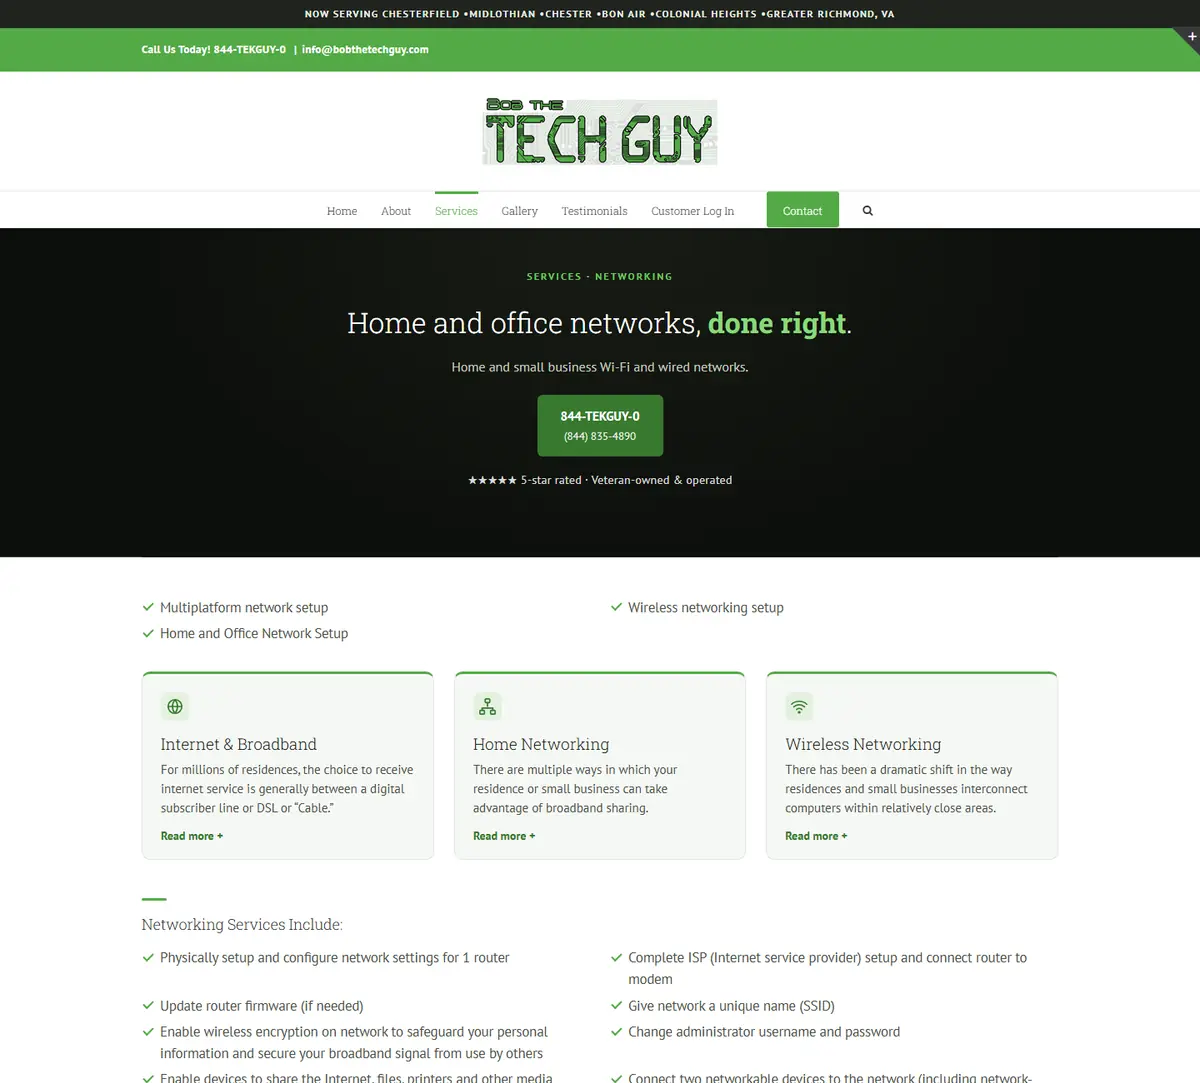
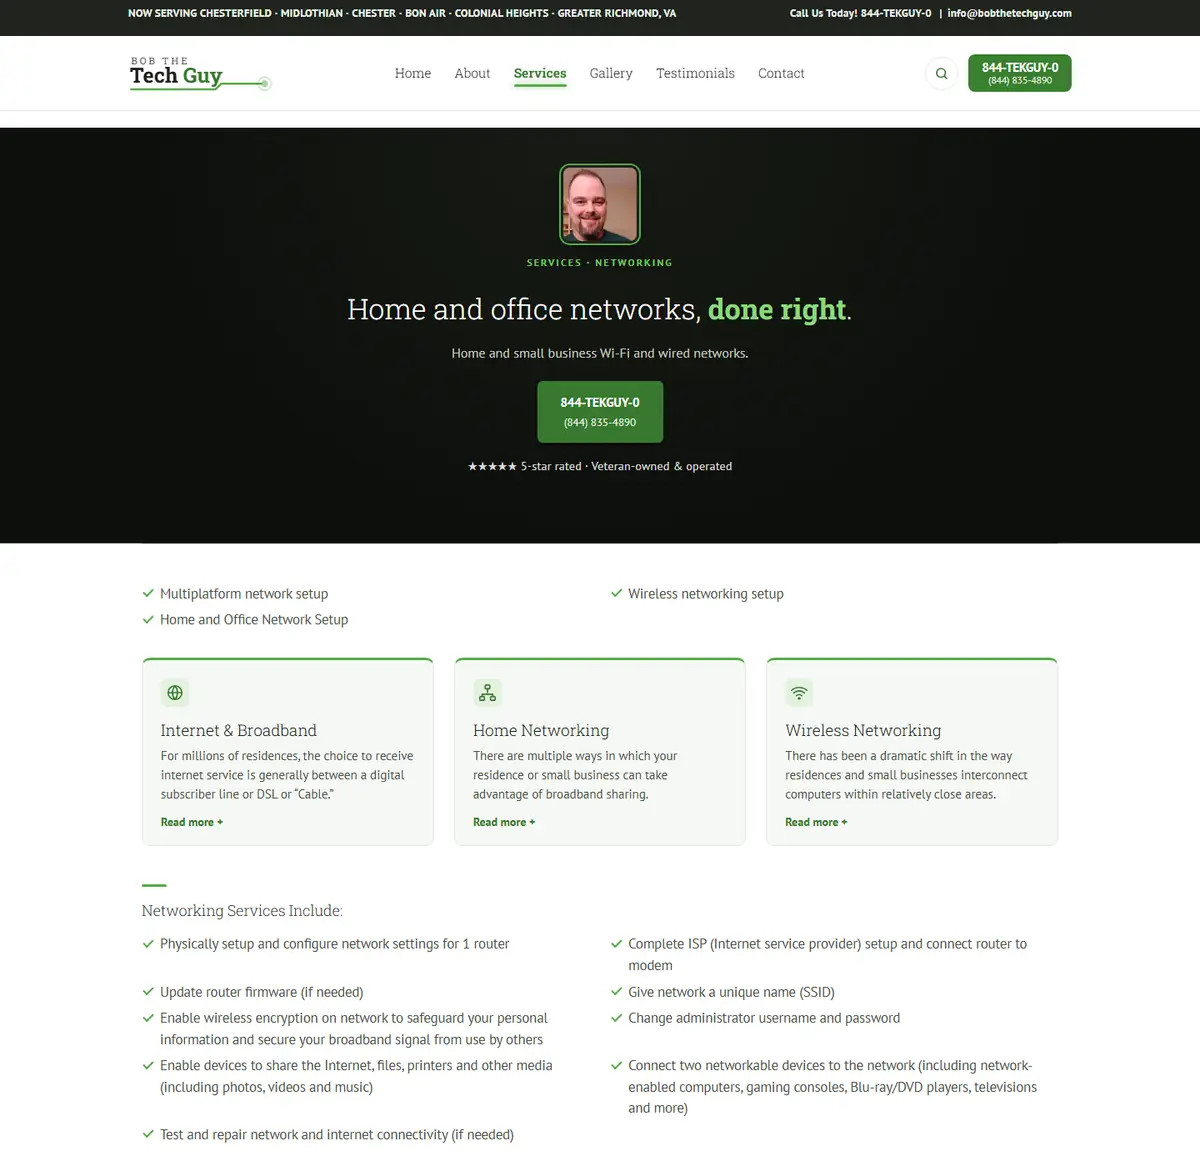
Refresh Bob after-screenshots from the live site

Changed region(s): [[0.0, 0.0, 1.0, 1.0]]

diff --git a/src/content/bobCaseFile.ts b/src/content/bobCaseFile.ts
@@ -53,9 +53,9 @@ export const AI_NOTE = "AI-assisted development (Claude Code), with every change
 
 export const WORK = [
   { pair: "Home", src: "/images/bob/home-before.webp", archived: true, alt: "Bob The Tech Guy homepage in 2022: old pixel logo, a public login bar, and a collage of brand logos", caption: "Home, before — archived 2022 via the Wayback Machine" },
-  { pair: "Home", src: "/images/bob/home-after.webp", alt: "Redesigned homepage with a full-width dark hero, a dialable phone button, and a 5-star trust line", caption: "Home, after — full-width hero and a dialable call button" },
+  { pair: "Home", src: "/images/bob/home-after.webp", alt: "Current homepage: full-width dark hero with Bob's photo, a dialable phone button, a 5-star trust line, live opening hours, and service shortcuts", caption: "Home, after — hero with a call button, live hours, and service shortcuts" },
   { pair: "Networking", src: "/images/bob/networking-before.webp", archived: true, alt: "Networking page in 2022 with long paragraphs and plain bullet lines", caption: "Networking, before — archived 2022 via the Wayback Machine" },
-  { pair: "Networking", src: "/images/bob/networking-after.webp", alt: "Redesigned Networking page with a dark hero, three summary cards, and a check-mark list", caption: "Networking, after — summary cards and a real checklist" },
+  { pair: "Networking", src: "/images/bob/networking-after.webp", alt: "Current Networking page with a dark hero, three summary cards, and check-mark lists", caption: "Networking, after — summary cards and a real checklist" },
   { src: "/images/bob/town-desktop.webp", alt: "Chester, Virginia service page with six summary cards on desktop", caption: "New town pages — six summary cards on desktop" },
   { phone: true, src: "/images/bob/phone-top.webp", alt: "Chester, Virginia page on an iPhone-sized screen: dark hero, headline, and a tap-to-call phone button", caption: "On a phone — hero and tap-to-call" },
   { phone: true, src: "/images/bob/phone-cards.webp", alt: "Chester, Virginia page on an iPhone-sized screen: summary cards stacked in one column", caption: "On a phone — cards stack into one column" },
